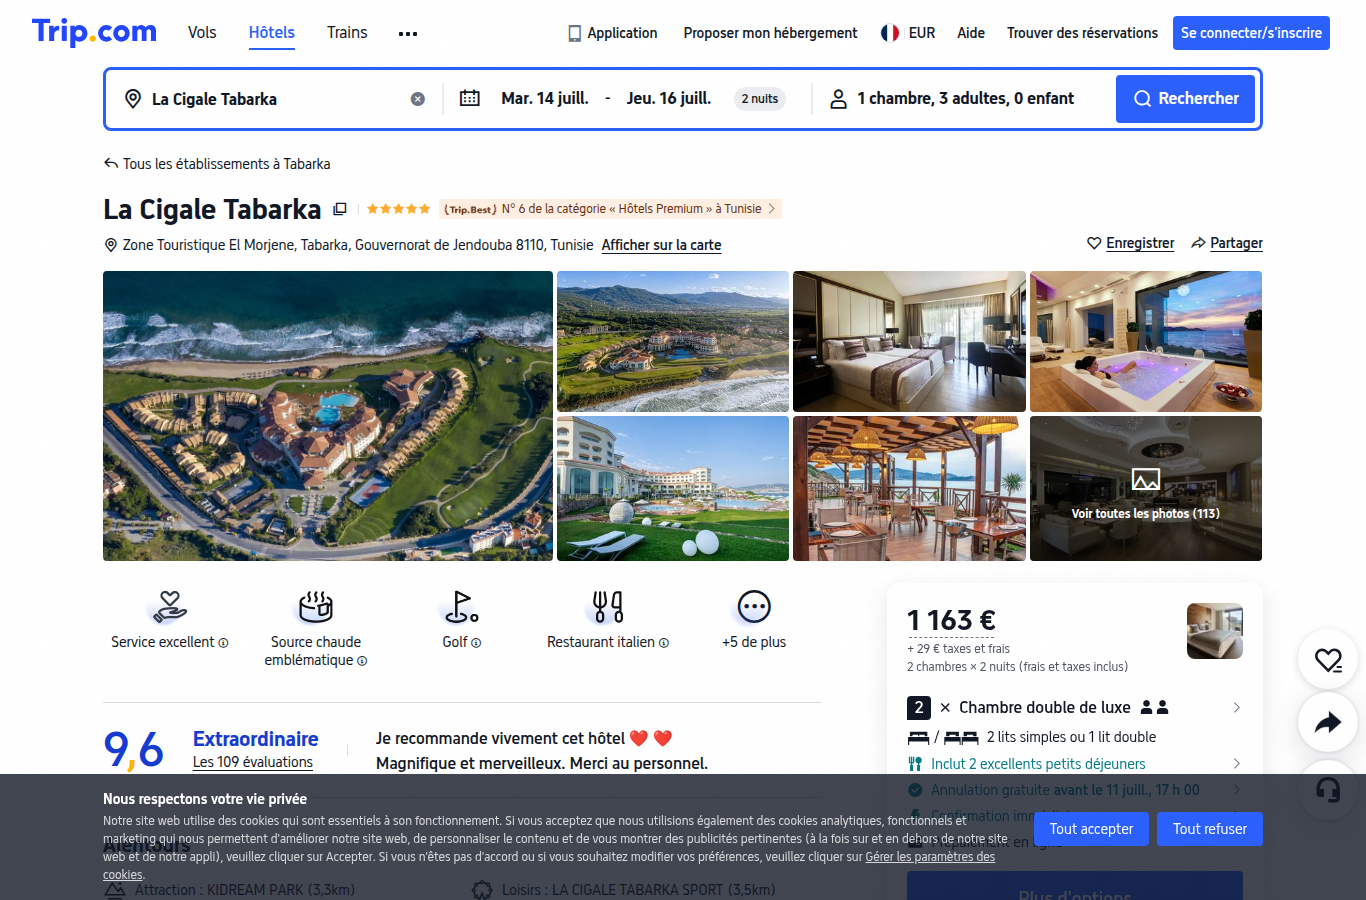
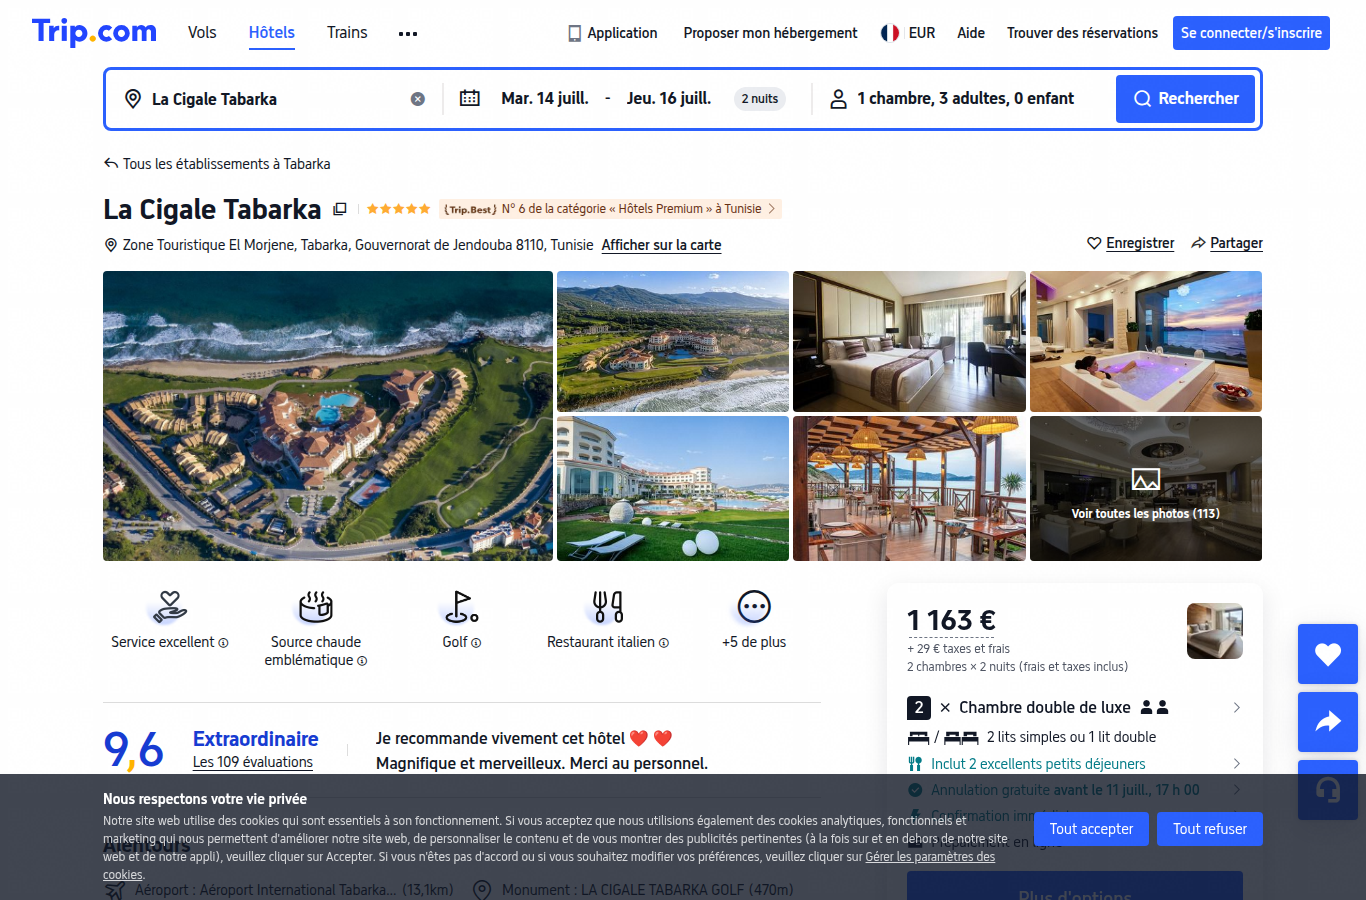
Confirm 796 EUR is best verified rate after foreign-OTA + promo sweep
Second hotel-deal-finder pass checked Expedia, Hotels.com, Agoda, Destinia,
Traveltodo, Libertavoyages plus Genius/member-price mechanics. No verified price
beats 796 EUR at comparable config (1 room, 3 full-fare guests, breakfast, taxes
in). Key finding: 14->16/07 is the only window with a single room for 3; other
dates need 2 rooms or are sold out. Promos (Booking Genius, Hotels.com member)
are login-gated and left unquantified rather than fabricated. Adds per-window
validation screenshots and the promo-hunt section to the dated report.

Claude-Session: https://claude.ai/code/session_01CEGyy9AfZ7ap3Q2RVzV9PN

Changed region(s): [[0.0615, 0.9644, 0.5842, 1.0], [0.9531, 0.6844, 1.0, 0.9333]]

diff --git a/.claude/agents/briefs/la-cigale-tabarka-rapport-2026-07-11.md b/.claude/agents/briefs/la-cigale-tabarka-rapport-2026-07-11.md
@@ -62,9 +62,37 @@ Captures de validation du créneau 14→16/07 versionnées dans
 `.claude/agents/reports/` (Booking, h-rez, Tunisie Booking, Trip.com). Captures de
 balayage des autres créneaux conservées dans le scratchpad de session.
 
+## Vérification promos / OTA étrangères (2e balayage)
+
+Question posée : peut-on descendre sous 796 € via des sites étrangers ou en cumulant
+des promos ? **Verdict : non, aucun prix vérifié inférieur à 796 € à config comparable.**
+
+Canaux supplémentaires testés en session live : **Expedia** (HTTP 429 anti-bot),
+**Hotels.com** (widget prix bloqué en chargement), **Agoda** (params URL ignorés par le
+SPA, calendrier non pilotable), **Traveltodo** / **Libertavoyages** (deep-link daté non
+supporté), **Destinia** (404).
+
+Découverte majeure : **14→16/07 est le seul créneau de la fenêtre avec une chambre unique
+pour 3 personnes.** Ailleurs : 15→17 force 2 chambres (~1 026 €, non comparable) ;
+16→18, 17→19, 18→20, 19→21 sont **complets** pour cet hôtel.
+
+Promos repérées mais **non chiffrables** (verrouillées derrière un compte connecté — aucun
+montant inventé) :
+- **Booking Genius** : « connectez-vous pour voir votre réduction » → ‑10/15 % possible,
+  invisible sans login. **Seule vraie piste pour passer sous 796 €** (≈ 717 € si ‑10 %).
+- **Hotels.com Member Prices / One Key** : idem, gated.
+- **Coupons Trip.com / Agoda** : non testables (moteur bascule sur 2 chambres pour 3 pers).
+- **Cashback** : hors portée d'un scraping ; cumulable côté utilisateur.
+
+Action côté utilisateur : réserver **connecté sur Booking.com** pour capter un éventuel
+tarif Genius, sinon **TunisieBooking à 796 €** reste la meilleure offre publique vérifiée.
+
 ## Sources
 
 - <https://tn.tunisiebooking.com/detail_hotel_354/>
 - <https://www.booking.com/hotel/tn/tabarka-beach.html>
 - <https://fr.trip.com/hotels/tabarka-hotel-detail-10717795/la-cigale-tabarka/>
+- <https://www.expedia.com/Tabarka-Hotels-La-Cigale-Tabarka-Hotel-Thalasso-Spa-Golf.h9209677.Hotel-Information>
+- <https://www.hotels.com/ho481157/la-cigale-tabarka-hotel-thalasso-spa-golf-tabarka-tunisia/>
+- <https://www.agoda.com/fr-fr/la-cigale-tabarka/hotel/tabarka-tn.html>
 - <https://www.lacigaletabarka.com/>
